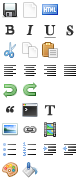
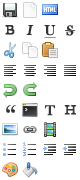
RTE adding the header block tool

Changed region(s): [[0.8, 0.5833, 0.95, 0.6389], [0.075, 0.5833, 0.2, 0.6389], [0.825, 0.1667, 0.925, 0.1944]]

diff --git a/src/rte/rte.js b/src/rte/rte.js
@@ -26,10 +26,10 @@ var Rte = new Widget({
 
     // predefined toolbars set
     Toolbars: {
-      small: ['bold italic underline strike ttext|cut copy paste|quote code|link image video|source'],
+      small: ['bold italic underline strike|cut copy paste|quote code ttext header|link image video|source'],
       basic: [
         'save clear|cut copy paste|bold italic underline strike ttext|left center right justify',
-        'undo redo|quote code|link image video|dotlist numlist listin listout|color background|source'
+        'undo redo|header quote code|link image video|dotlist numlist|listin listout|color background|source'
       ]
     },
 
@@ -42,6 +42,7 @@ var Rte = new Widget({
       Underline:  'Underline',
       Strike:     'Strike through',
       Ttext:      'Mono width',
+      Header:     'Header',
       Cut:        'Cut',
       Copy:       'Copy',
       Paste:      'Paste',

diff --git a/src/rte/rte.css b/src/rte/rte.css
@@ -132,6 +132,7 @@ div.rui-rte-toolbar div.redo       { background-position: -20px  -80px; }
 div.rui-rte-toolbar div.quote      { background-position:   0px -100px; }
 div.rui-rte-toolbar div.code       { background-position: -20px -100px; }
 div.rui-rte-toolbar div.ttext      { background-position: -40px -100px; }
+div.rui-rte-toolbar div.header     { background-position: -60px -100px; }
 
 div.rui-rte-toolbar div.image      { background-position:   0px -120px; }
 div.rui-rte-toolbar div.link       { background-position: -20px -120px; }

diff --git a/src/rte/__init__.js b/src/rte/__init__.js
@@ -25,7 +25,6 @@ include_module_files(
   'tools/italic',
   'tools/underline',
   'tools/strike',
-  'tools/ttext',
 
   'tools/cut',
   'tools/copy',
@@ -41,6 +40,8 @@ include_module_files(
 
   'tools/code',
   'tools/quote',
+  'tools/ttext',
+  'tools/header',
 
   'tools/link',
   'tools/image',

diff --git a/src/rte/tools/header.js b/src/rte/tools/header.js
@@ -1,0 +1,14 @@
+/**
+ * The header block tool
+ *
+ * Copyrigth (C) 2010 Nikolay Nemshilov
+ */
+Rte.Tool.Header = new Class(Rte.Tool, {
+  key:     'H',
+  command: 'formatblock',
+
+  initialize: function(rte) {
+    this.$super(rte);
+    this.tag = rte.options.headerTag;
+  }
+});
